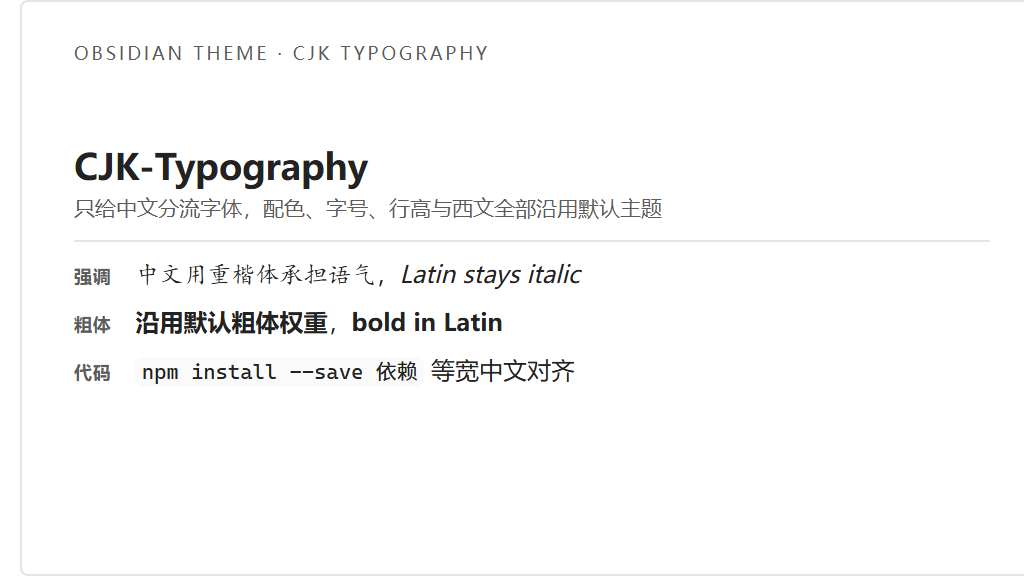
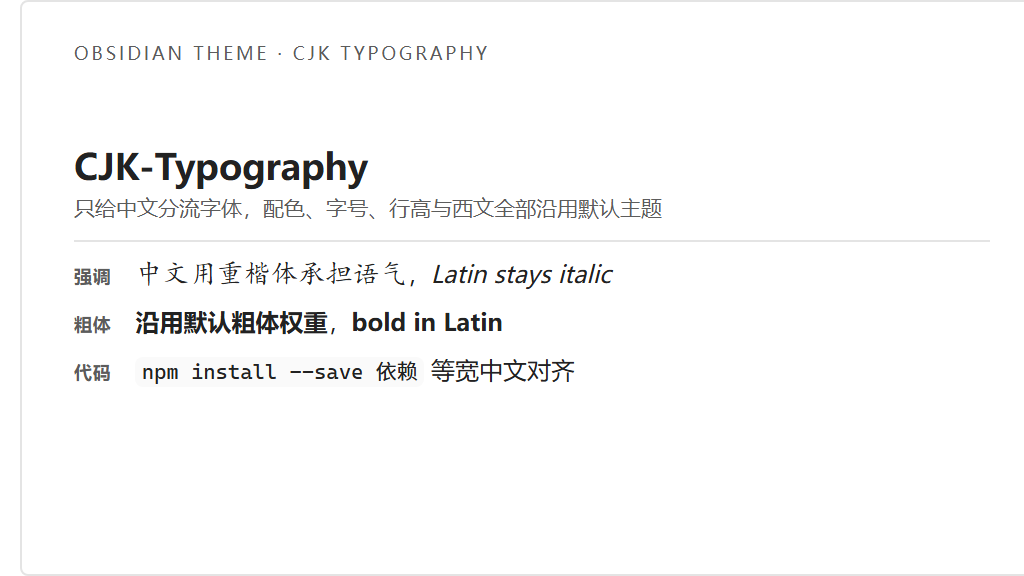
fix: 楷体强调字面偏矮，用 size-adjust 放大中文字形
实测 100px 下楷体墨迹高 81、雅黑 92，差约 12%——行高一致，
矮的是字面。CJK-Em 面加 size-adjust: 113% 只放大经它渲染的
中文字形，西文、font-size 与行框均不受影响。

Changed region(s): [[0.125, 0.4375, 0.5938, 0.5]]

diff --git a/theme.css b/theme.css
@@ -28,6 +28,10 @@
      否则浏览器会拿常规字面做机械倾斜（伪斜体）。 */
   font-style: italic;
   font-weight: 400;
+  /* 楷体字身框内留白大，同字号墨迹比默认字体矮约 12%
+     （实测 100px 下楷体墨迹 81 vs 雅黑 92）。size-adjust 只放大经此
+     面渲染的中文字形，不影响西文、font-size 与行框。 */
+  size-adjust: 113%;
 }
 
 em,

diff --git a/cjk-typography.css b/cjk-typography.css
@@ -13,6 +13,8 @@
   unicode-range: U+2E80-9FFF, U+F900-FAFF, U+FE30-FE4F, U+FF00-FFEF;
   font-style: italic;
   font-weight: 400;
+  /* 楷体同字号墨迹比默认字体矮约 12%，size-adjust 只放大中文字形 */
+  size-adjust: 113%;
 }
 
 em,
